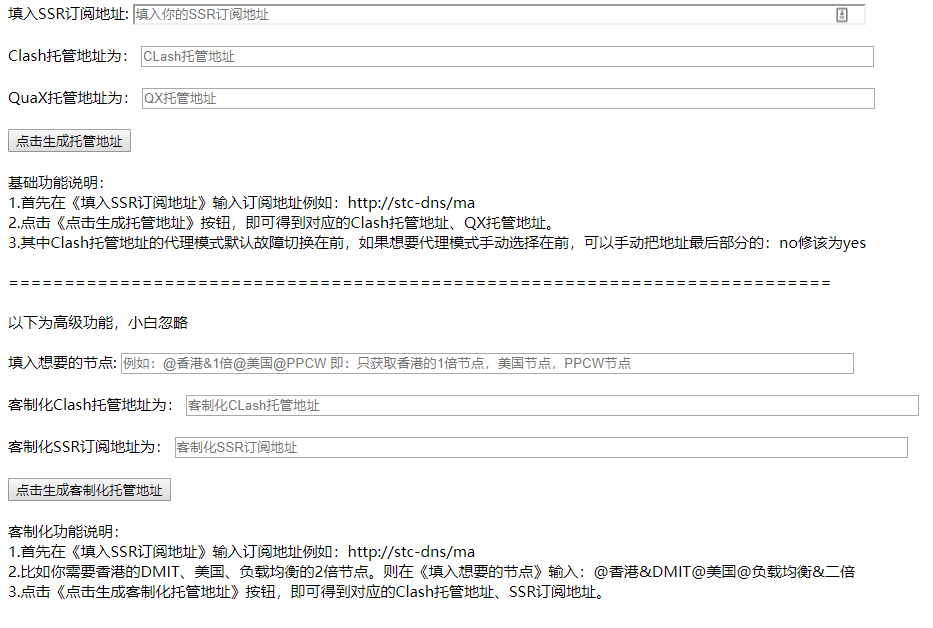
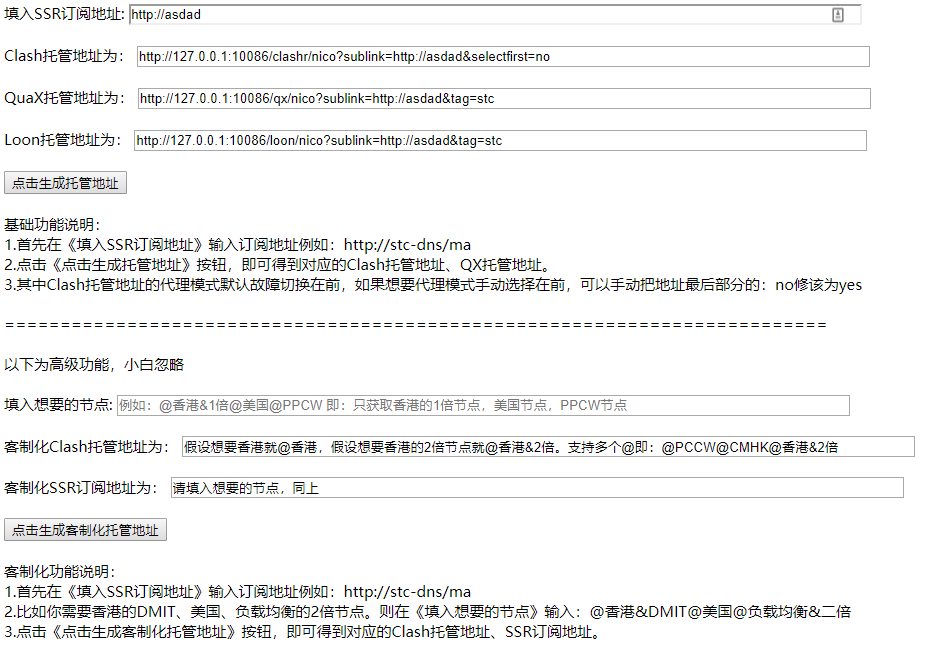
更新Loon

diff --git a/templates/index.html b/templates/index.html
@@ -13,6 +13,8 @@
                 <input type="text" name = "clash" placeholder = "CLash托管地址" readonly="readonly" value = "{{ Clash }}" size="100"/>
                 <br/><br/>QuaX托管地址为：
                 <input type="text" name = "qx" placeholder = "QX托管地址" readonly="readonly" value = "{{ QX }}" size="100"/>
+                <br/><br/>Loon托管地址为：
+                <input type="text" name = "loon" placeholder = "Loon托管地址" readonly="readonly" value = "{{ Loon }}" size="100"/>
                 <br/><br/>
                 <input type="submit" value = "点击生成托管地址""/>
                 <br/><br/>

diff --git a/SSR_Clash_API.py b/SSR_Clash_API.py
@@ -321,7 +321,8 @@ def index():
             CustomClash = 'http://127.0.0.1:10086/clashr/nico?sublink='+str(sub)+'&custom='+str(custom)+'&selectfirst=no'
             CustomSSR = 'http://127.0.0.1:10086/ssr/nico?sublink='+str(sub)+'&custom='+str(custom)
         QX = 'http://127.0.0.1:10086/qx/nico?sublink='+str(sub)+'&tag=stc'
-        return render_template('index.html', Clash = Clash,QX = QX,CustomClash = CustomClash,CustomSSR = CustomSSR,Custom =request.form['custom'] ,sub = sub)
+        Loon = 'http://127.0.0.1:10086/loon/nico?sublink='+str(sub)+'&tag=stc'
+        return render_template('index.html', Clash = Clash,QX = QX,Loon=Loon,CustomClash = CustomClash,CustomSSR = CustomSSR,Custom =request.form['custom'] ,sub = sub)
     return render_template('index.html')
 
 @app.route('/clashr/nico', methods=['GET', 'POST'])

diff --git a/README.md b/README.md
@@ -13,9 +13,8 @@
 # 功能介绍
   - API：建议使用SSR_Clash_API.py。 同目录下放置config、api、templates文件夹下所有文件 <br/>
   - python3 SSR_Clash_API.py 运行脚本 <br/>
-  - 打开：ip:10086/ 按照说明生成托管地址 <br/>
+  - 打开：ip:10086/ 按照说明生成托管地址 <br/><br/><br/>
   ![image](https://github.com/lzdnico/SSRClash/blob/master/images/%E8%AF%B4%E6%98%8E.png) <br/>
-  - 支持SSR_Clash、QuantumultX、Loon、SSR客制化 <br/>
   - 脚本可运行在本地，其中ip改为127.0.0.1即可 <br/> 
 
 
